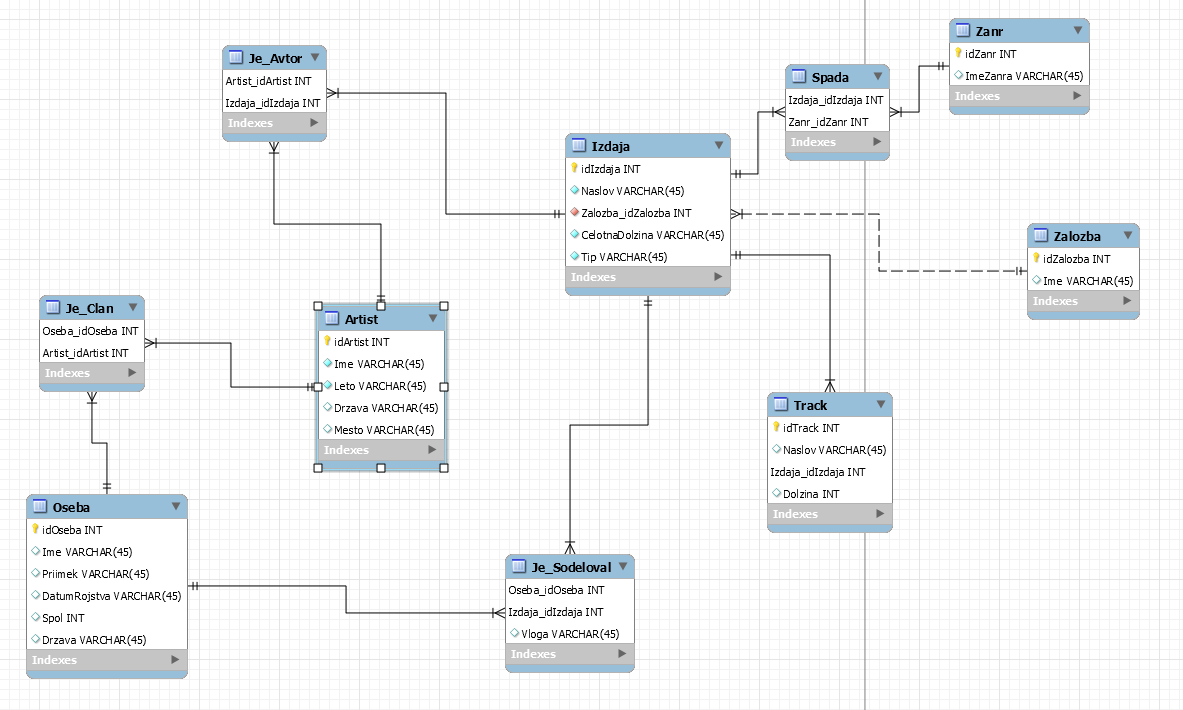
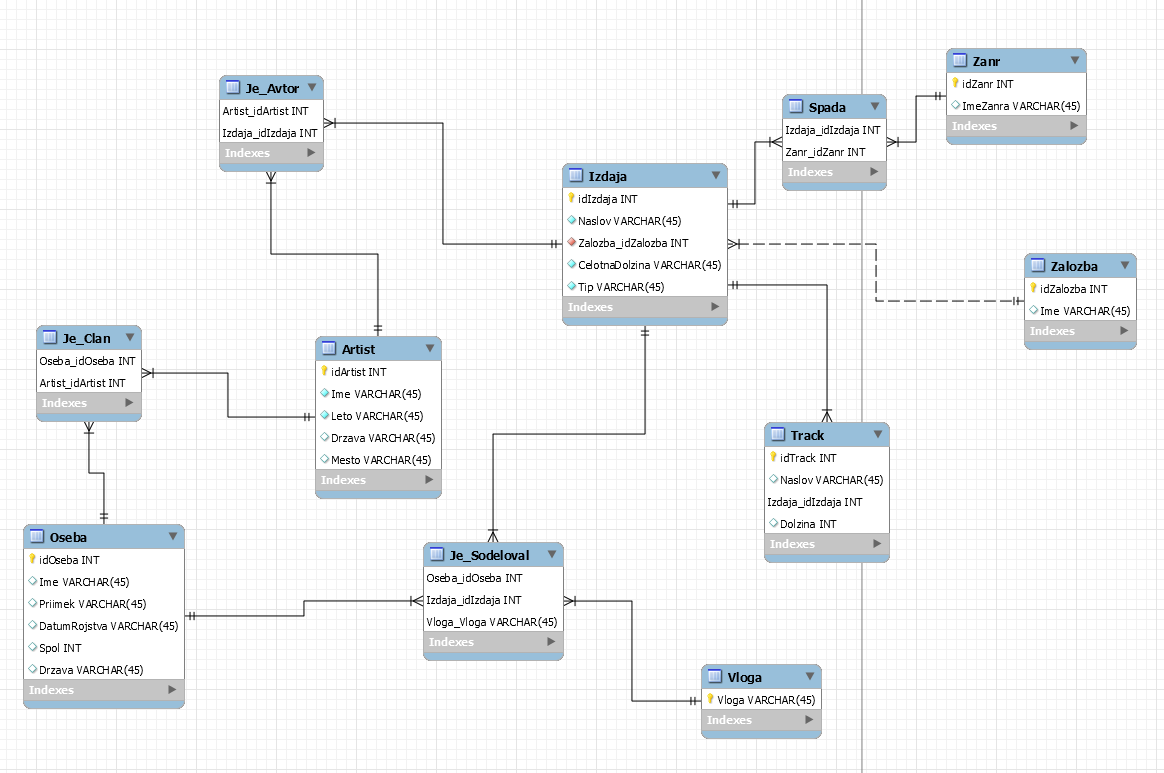
Posodobitev ER & musicbrainzngs

diff --git a/musicBrainzTest.py b/musicBrainzTest.py
@@ -1,0 +1,8 @@
+#Bo uporabljeno za prenos podatkov iz baze
+
+import musicbrainzngs
+
+musicbrainzngs.set_useragent("MusicDB (School project)", "1.0", "/")
+b=musicbrainzngs.search_artists("Siddharta")
+print(b)
+
